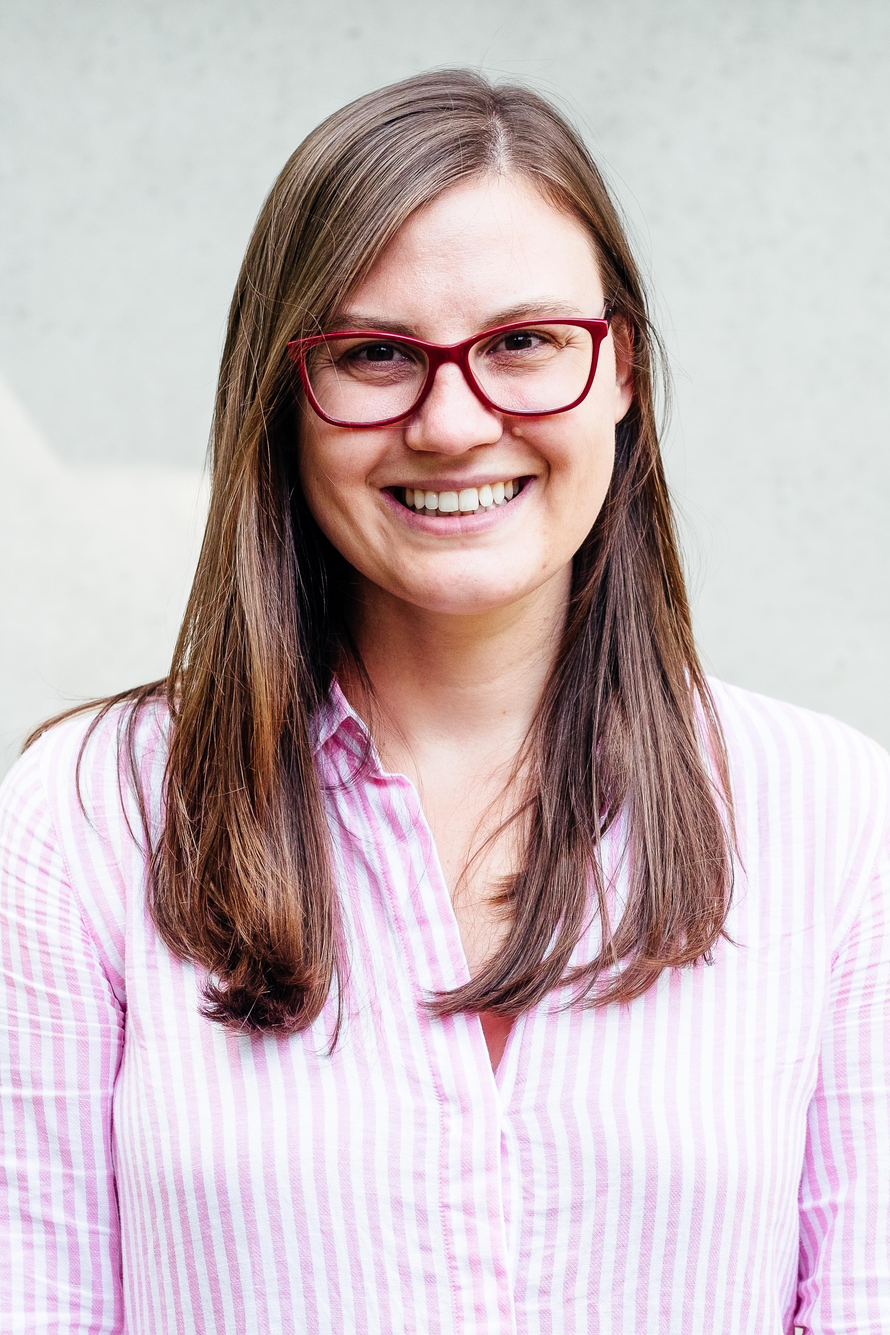
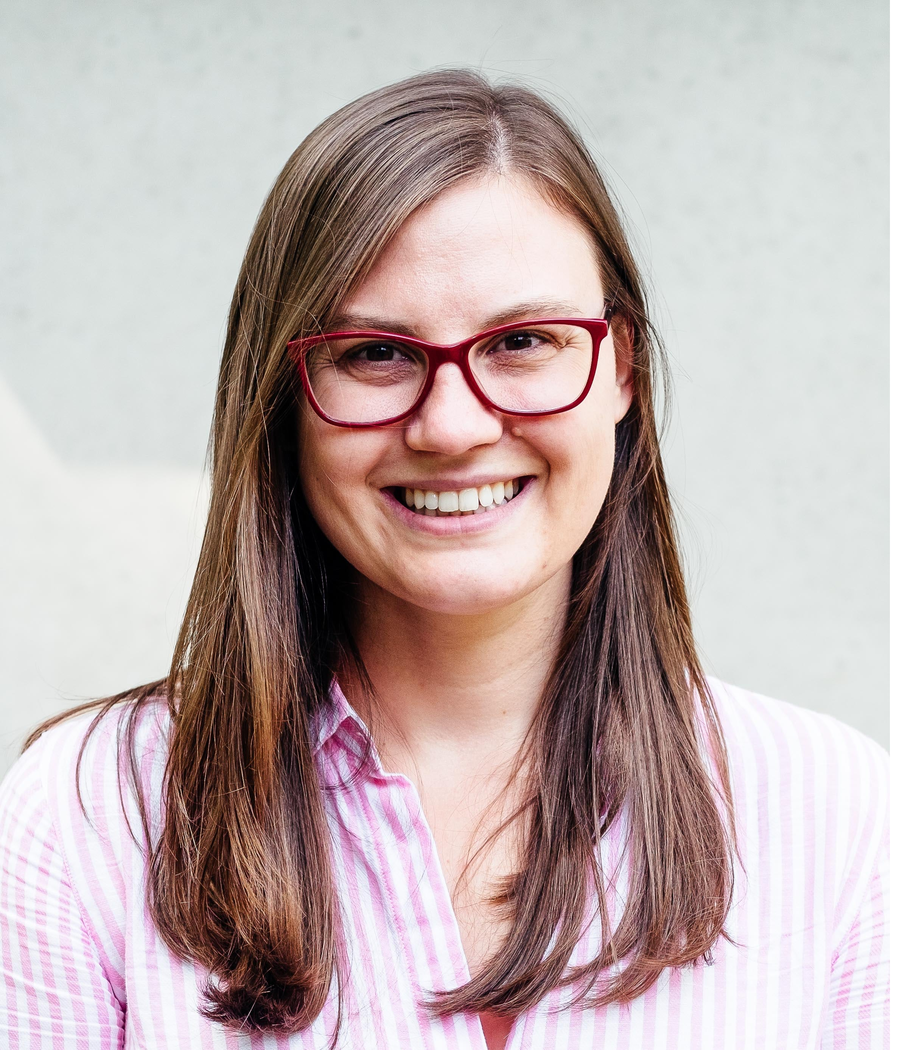
Trimming the image "fat"

diff --git a/index.html b/index.html
@@ -15,8 +15,7 @@
   <!--Header-->
   <div class="header">
     <div class="width-wrap">
-      <img class="banner"
-           src="img/CoverPhoto_COPY.jpg"/>
+      <img class="banner" src="img/cover.jpg"/>
       <div class="a">
         <div class="avatar">
           <img src="img/photo.jpg" alt="Dr. Sara Mitchell"/>
